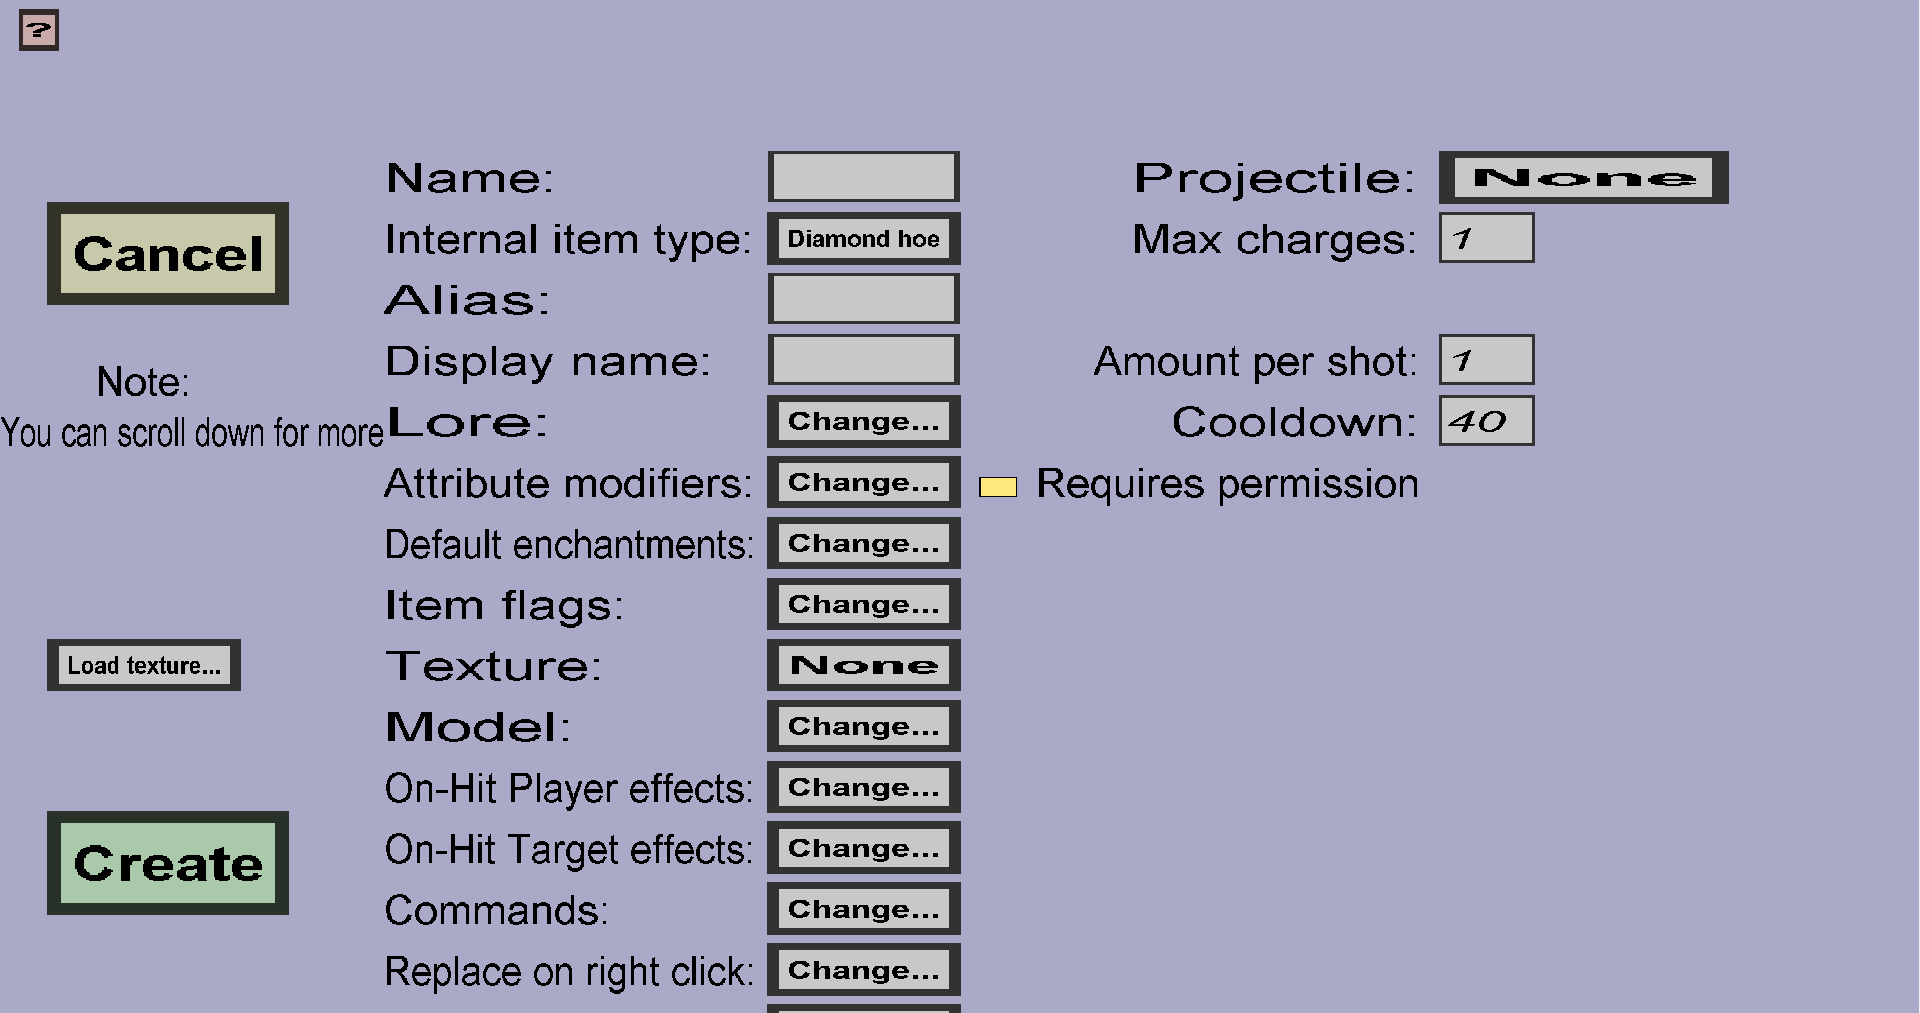
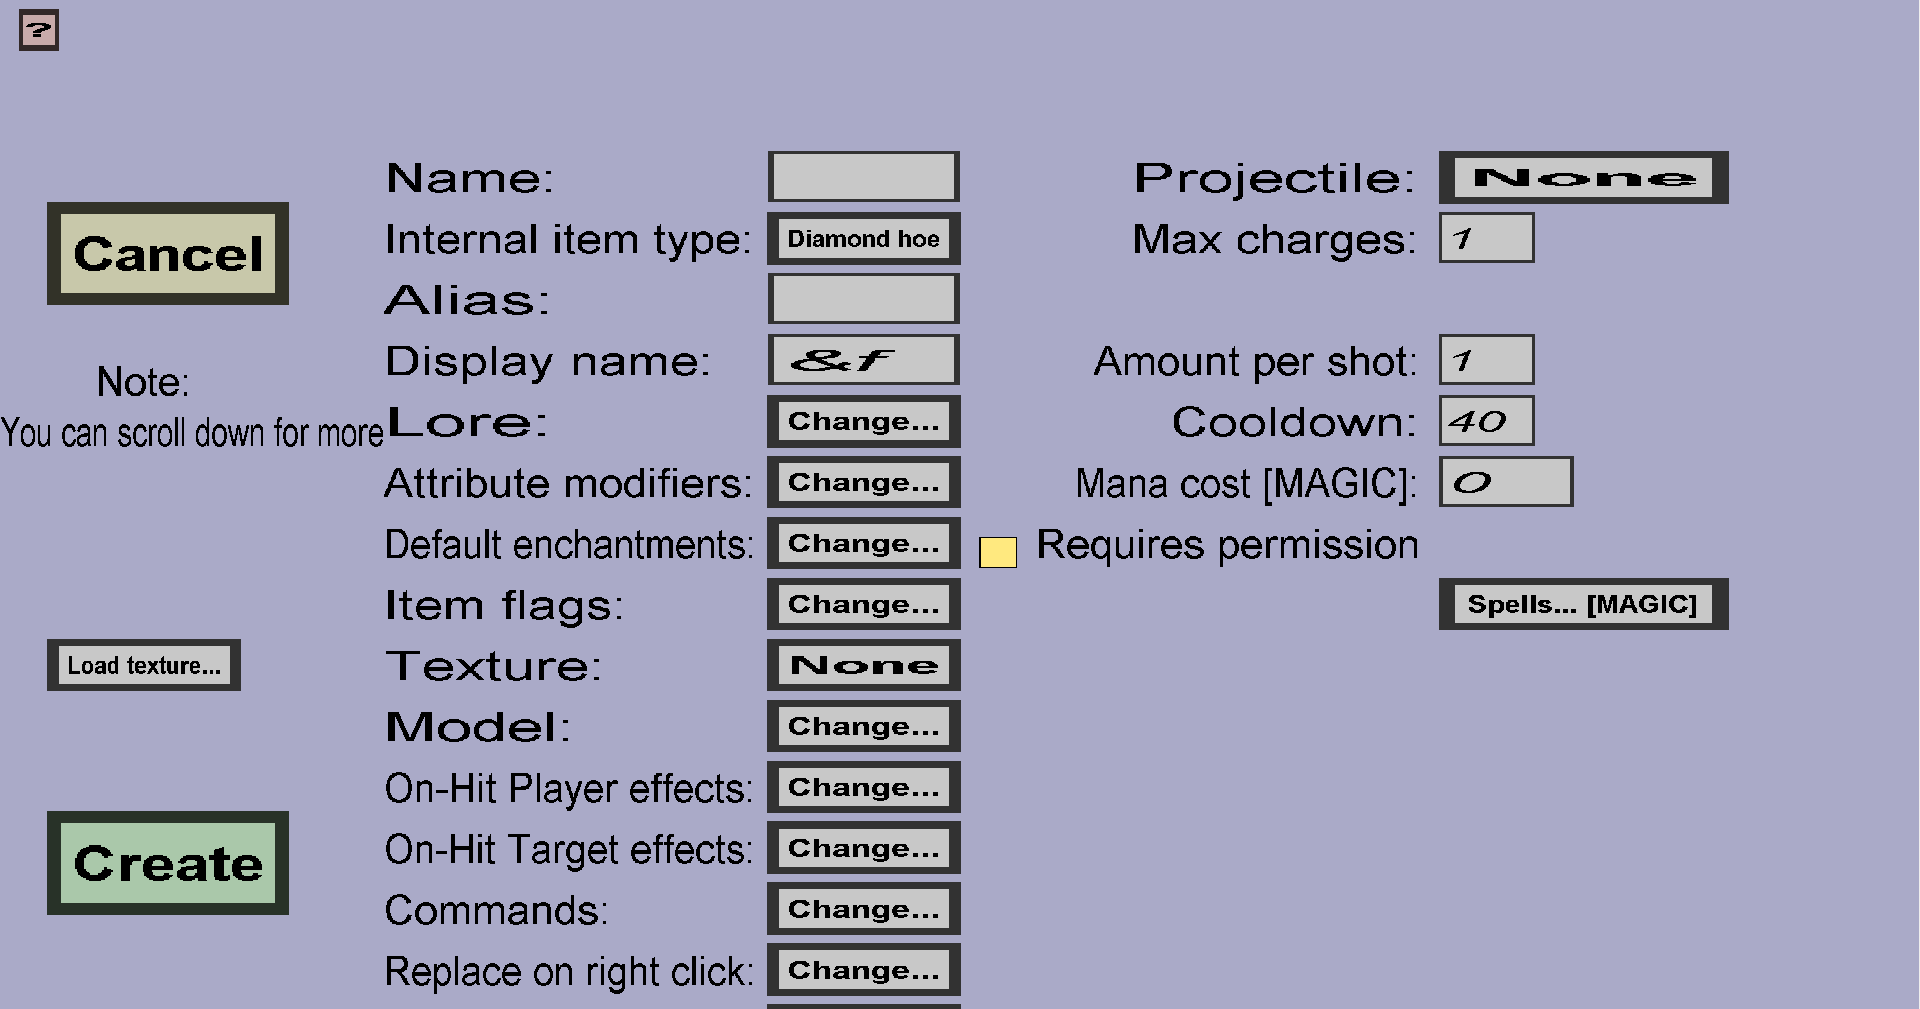
Document the Magic integration of KCI 13

diff --git a/custom items/editor documentation/edit menu/items/edit/wand.html b/custom items/editor documentation/edit menu/items/edit/wand.html
@@ -7,8 +7,9 @@
     <body>
         <p>
             The wand edit menu can be used to modify or create (custom) wands. 
-            Please note that you need to create a <b>custom projectile</b> before you can create a wand.
-            If you just started creating a new wand, it should look like this:
+            Please note that you need to create a <b>custom projectile</b> before you can create a wand
+            (unless you installed the Magic plug-in). If you just started creating a new wand, 
+            it should look like this:
         </p>
         <img src="wand.png" width="50%" />
         <p>
@@ -58,11 +59,24 @@
         <p>
             As long as any of those is not satiesfied, the player won't be able to fire.
         </p>
+        <h3>Mana cost [MAGIC]</h3>
+        <p>
+            This wand requires mana from the <a href="https://www.spigotmc.org/resources/magic.1056/">Magic</a> plug-in.
+            If you don't install this plug-in and the mana cost is higher than 0, the wand is unusable.
+            If you additionally install the <a href="https://www.spigotmc.org/resources/actionbarapi-1-8-1-19.86006/">Action Bar API</a> 
+            plug-in, the current mana of the player will be shown in their action bar.
+        </p>
         <h3>Requires permission</h3>
         <p>
             Whether players need a permission to shoot projectiles with this wand. If this is unchecked, any player
             can shoot projectiles with this wand. If this is checked, only players with the <b>customitems.shoot.WAND_NAME</b>
             or the <b>customitems.shootall</b> permission can shoot projectiles with this wand.
+        </p>
+        <h3>Spells... [MAGIC]</h3>
+        <p>
+            Lets the wand cast spells from the <a href="https://www.spigotmc.org/resources/magic.1056/">Magic</a> plug-in.
+            You need to insert the name of the spell(s) that you want the wand to cast. This does nothing when the Magic
+            plug-in is not installed. You can use <b>/kci magic</b> to see the list of spells.
         </p>
     </body>
 </html>

diff --git a/custom items/compatibility/positive.html b/custom items/compatibility/positive.html
@@ -199,5 +199,16 @@ test_event_handler:
             items from this plug-in will be like <b>KnokkosCustomItems:item_name</b> where <b>item_name</b> is the name you used in 
             the Editor.
         </p>
+        <h3><a href="https://www.spigotmc.org/resources/magic.1056/">Magic</a></h3>
+        <p>
+            The Magic plug-in adds mana and spells. If you use Magic alongside this plug-in, wands from this plug-in can
+            consume mana from Magic and/or launch Magic spells rather than custom projectiles. If you also install
+            ActionBarAPI, players can see their current mana while holding a custom wand that requires mana.
+        </p>
+        <p>
+            Note: Magic overrides the server resourcepack by default, which will hide the custom textures from
+            this plug-in. You can turn this behavior off by putting <i>default_resource_pack: ""</i> in their
+            <i>config.yml</i>.
+        </p>
     </body>
 </html>

diff --git a/custom items/commands.html b/custom items/commands.html
@@ -163,6 +163,12 @@
             <li>customitems.containercommand.destroy.*.<b>host string</b></li>
             <li>customitems.containercommand.destroy.<b>container name</b>.<b>host string</b></li>
         </ul>
+        <h2>/kci magic</h2>
+        <p>
+            If integration with the <a href="https://www.spigotmc.org/resources/magic.1056/">Magic</a> plug-in is
+            enabled, this will list the available spells. If not, this command will tell you that Magic integration is
+            not enabled.
+        </p>
         <h2>/kci disableoutput &lt;rest of the command&gt;</h2>
         <p>
             Executes <i>/kci <b>rest of the command</b></i>, but disables (ignores) all command feedback/output.
